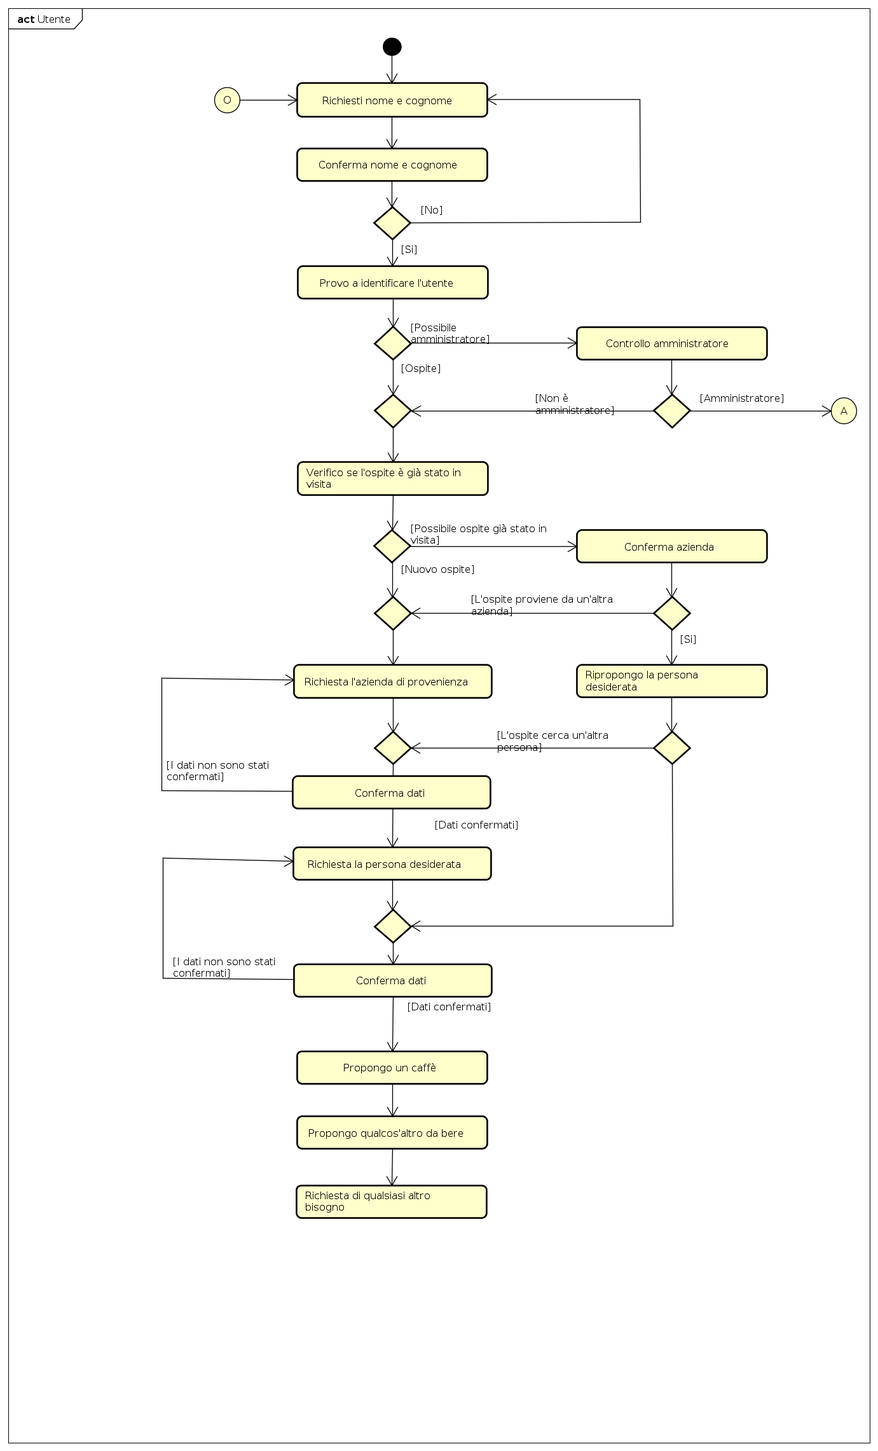
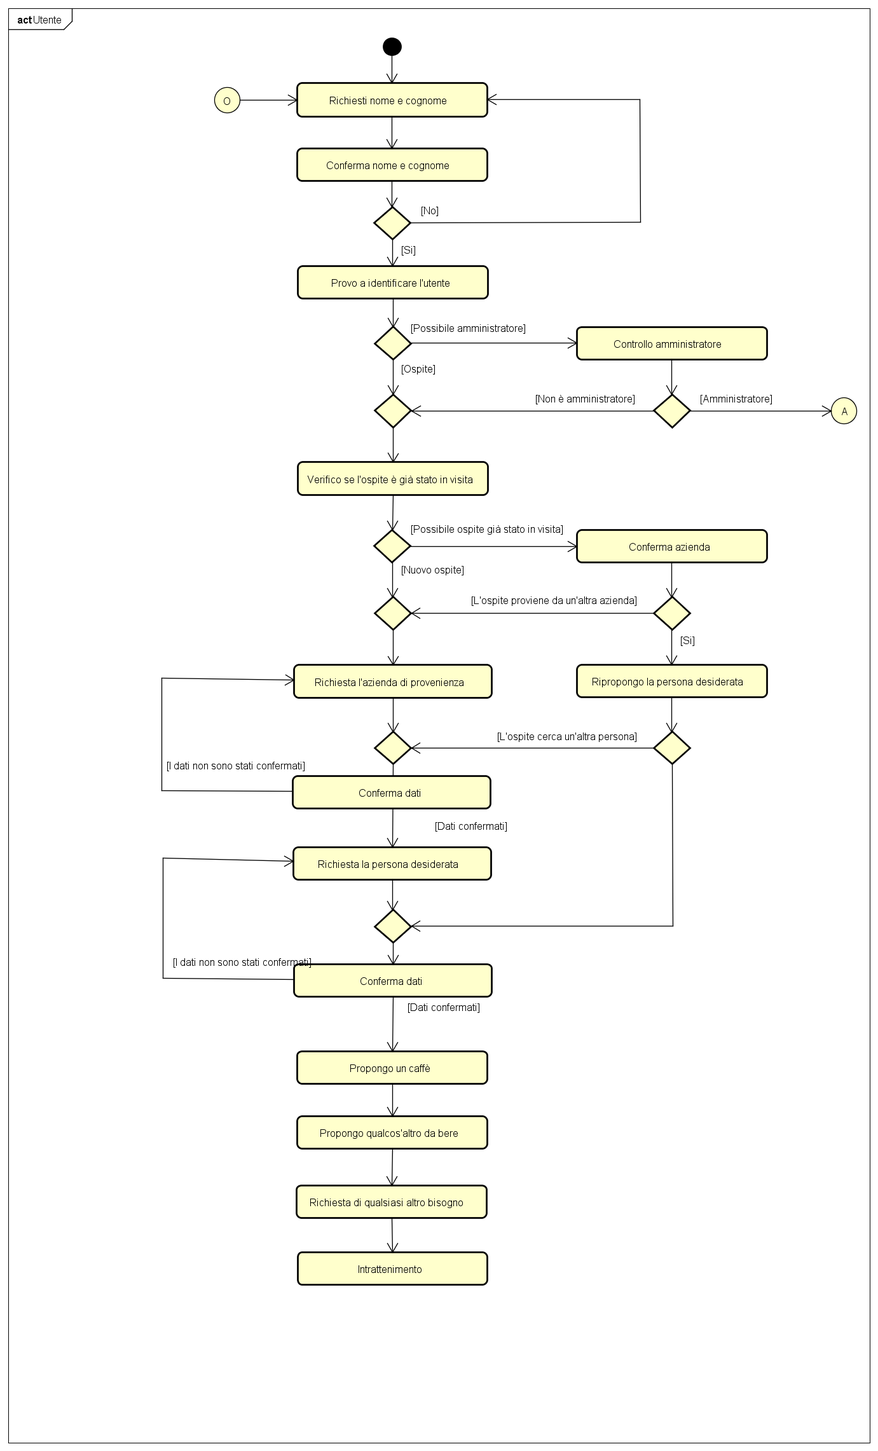
manuale fix deploy, fix immagini, spostata sezione popolamento, aggiunto intrattenimento al diagramma attività

diff --git a/RA/Esterni/ManualeUtente/sezioni/installazione.tex b/RA/Esterni/ManualeUtente/sezioni/installazione.tex
@@ -10,7 +10,7 @@ Per scaricare l'applicativo è sufficiente clonare o scaricare il repository dis
 \subsection{Configurazione}\label{configurazione}
 Per il deploy dei servizi, è necessario inizialmente installare Node.js al fine di  ottenere i moduli npm necessari alla corretta esecuzione del software. Node.js è disponibile al link \url{https://nodejs.org/en/} (ultima visita 2017-06-10).\\In secondo luogo, è necessario creare e configurare alcuni account per il corretto funzionamento del prodotto.
 
-\subsubsection{Amazon Web Services}
+\subsubsection{Amazon Web Services}\label{aws}
 \paragraph{Creazione}
 Amazon Web Services è una collezione di servizi di cloud computing che compongono la piattaforma "on demand" offerta dall'azienda Amazon. Questi servizi sono operativi in 12 regioni geografiche in cui Amazon stessa ha suddiviso il globo.\\
 I servizi utilizzati dal prodotto sono:
@@ -22,7 +22,7 @@ I servizi utilizzati dal prodotto sono:
 \end{itemize}
 Per usufruire di essi, è sufficiente creare un account alla pagina \url{https://aws.amazon.com} (visitato in data 2017-06-10) cliccando sul pulsante "Registrazione" (figura \ref{fig:aws}). \\
 Durante la registrazione, verrà chiesto di associare una carta di credito all'account. Questa operazione deve essere fatta, altrimenti non sarebbe possibile fare utilizzo dei servizi offerti.
-\begin{figure}[h]
+\begin{figure}[H]
 \includegraphics[width=\textwidth,height=\textheight,keepaspectratio]{sezioni/images/aws.jpg}
 \caption{Registrazione AWS}\label{fig:aws}
 \end{figure}
@@ -40,27 +40,27 @@ Per poter integrare Slack con il sistema di notifica è necessaria la creazione 
 \item andare nel canale generale del proprio team ed invitare il bot creato (vedi figura \ref{fig:Slack-Invite});
 \item il canale (vedi figura \ref{fig:Slack-Channel} verrà utilizzato per il deploy di Events (vedi sezione \ref{deploy-events}).
 \end{itemize}
-\begin{figure}[h]
+\begin{figure}[H]
 	\centering{\includegraphics[width=0.7\textwidth,height=\textheight,keepaspectratio]{sezioni/images/slack-buildapp.jpg}}
 	\caption{slack build app}\label{fig:Slack-Buildapp}
 \end{figure}
-\begin{figure}[h]
+\begin{figure}[H]
 	\centering{\includegraphics[width=0.7\textwidth,height=\textheight,keepaspectratio]{sezioni/images/slack-botuser.jpg}}
 	\caption{slack add bot user}\label{fig:Slack-Botuser}
 \end{figure}
-\begin{figure}[h]
+\begin{figure}[H]
 	\centering{\includegraphics[width=0.7\textwidth,height=\textheight,keepaspectratio]{sezioni/images/slack-installapp.jpg}}
 	\caption{slack install app}\label{fig:Slack-Installapp}
 \end{figure}
-\begin{figure}[h]
+\begin{figure}[H]
 	\centering{\includegraphics[width=0.7\textwidth,height=\textheight,keepaspectratio]{sezioni/images/slack-token.jpg}}
 	\caption{slack token}\label{fig:Slack-Token}
 \end{figure}
-\begin{figure}[h]
+\begin{figure}[H]
 	\centering{\includegraphics[width=0.7\textwidth,height=\textheight,keepaspectratio]{sezioni/images/slack-invite.jpg}}
 	\caption{slack invite bot}\label{fig:Slack-Invite}
 \end{figure}
-\begin{figure}[h]
+\begin{figure}[H]
 	\centering{\includegraphics[width=0.7\textwidth,height=\textheight,keepaspectratio]{sezioni/images/slack-channel.jpg}}
 	\caption{slack channel}\label{fig:Slack-Channel}
 \end{figure}
@@ -81,7 +81,7 @@ Una volta installato, è necessario applicare la seguente procedura:
 \paragraph{Creazione}
 Questo servizio viene utilizzato per realizzare le funzionalità che richiedono il riconoscimento vocale, quali la costruzione dell'impronta vocale (\gl{enrollment}) di un nuovo amministratore e l'accesso al sistema.\\
 È necessario creare un account al link \url{https://www.microsoft.com/cognitive-services} (visitato in data 2017-06-10) cliccando sul pulsante "Get started for free" (figura \ref{fig:microsoft}). Il trial gratuito ha durata di 90 giorni.
-\begin{figure}[h]
+\begin{figure}[H]
 	\centering{\includegraphics[width=0.8\textwidth,height=\textheight,keepaspectratio]{sezioni/images/microsoft.png}}
 	\caption{Registrazione Microsoft Cognitive Services}\label{fig:microsoft}
 \end{figure}
@@ -93,15 +93,15 @@ Una volta effettuato l'accesso, è necessario applicare la seguente procedura:
 	\item tornare nella pagina principale per visualizzare le credenziali per utilizzare il nuovo servizio (figura \ref{fig:credMicrosoft});
 \end{itemize}
 
-\begin{figure}[h]
+\begin{figure}[H]
 	\centering{\includegraphics[width=0.8\textwidth,height=\textheight,keepaspectratio]{sezioni/images/microsoft1.png}}
 	\caption{Aggiungere un servizio Microsoft}\label{fig:addMicrosoft}
 \end{figure}
-\begin{figure}[h]
+\begin{figure}[H]
 	\centering{\includegraphics[width=0.8\textwidth,height=\textheight,keepaspectratio]{sezioni/images/microsoft2.png}}
 	\caption{Selezionare Speaker Recognition Microsoft}\label{fig:speakerRec}
 \end{figure}
-\begin{figure}[h]
+\begin{figure}[H]
 	\centering{\includegraphics[width=0.8\textwidth,height=\textheight,keepaspectratio]{sezioni/images/microsoft3.png}}
 	\caption{Ottenere le credenziali Speaker Recognition Microsoft}\label{fig:credMicrosoft}
 \end{figure}
@@ -110,7 +110,7 @@ Una volta effettuato l'accesso, è necessario applicare la seguente procedura:
 \paragraph{Creazione}
 Questo servizio viene utilizzato per realizzare le funzionalità di Speech to Text, ovvero l'estrazione del testo pronunciato in un file audio.\\
 È necessario creare un account su IBM Bluemix (figura \ref{fig:bluemix}) al seguente link \url{https://console.ng.bluemix.net/registration/?target=/catalog/\%3fcategory=watson} (visitato in data 2017-06-10). Vengono concessi 30 giorni di utilizzo gratuito, oltre i quali è necessario associare una carta di credito all'account.
-\begin{figure}[h]
+\begin{figure}[H]
 	\centering{\includegraphics[width=0.8\textwidth,height=\textheight,keepaspectratio]{sezioni/images/bluemix.png}}
 	\caption{Registrazione bluemix}\label{fig:bluemix}
 \end{figure}
@@ -122,15 +122,15 @@ Una volta effettuato l'accesso, è necessario applicare la seguente procedura:
 	\item Selezionare "Services" e poi "Dashboard" dal menù a sinistra, in maniera tale da ottenere la lista dei servizi attivati. Cliccare sul servizio di Speech to Text per visualizare le credenziali di utilizzo (username e password, figura \ref{fig:credentialsWatson}).
 \end{itemize}
 
-\begin{figure}[h]
+\begin{figure}[H]
 	\centerline{\includegraphics[width=1\textwidth,height=\textheight,keepaspectratio]{sezioni/images/watson.PNG}}
 	\caption{Catalogo dei servizi IBM Watson}\label{fig:consoleWatson}
 \end{figure}
-\begin{figure}[h]
+\begin{figure}[H]
 	\centerline{\includegraphics[width=1\textwidth,height=\textheight,keepaspectratio]{sezioni/images/watson-create.PNG}}
 	\caption{Creazione del servizio di STT in IBM Watson}\label{fig:serviceWatson}
 \end{figure}
-\begin{figure}[h]
+\begin{figure}[H]
 	\centerline{\includegraphics[width=1\textwidth,height=\textheight,keepaspectratio]{sezioni/images/watson-credentials.PNG}}
 	\caption{Visualizzazione delle credenziali di STT in IBM Watson}\label{fig:credentialsWatson}
 \end{figure}
@@ -139,7 +139,7 @@ Una volta effettuato l'accesso, è necessario applicare la seguente procedura:
 \paragraph{Creazione}
 È il Software Development Kit (SDK) utilizzato per l'effettiva costruzione dell'assistente virtuale.
 È necessario creare un account al link \url{https://api.ai/} (visitato in data 2017-06-10) cliccando sul pulsante "sign up free", ma se si dispone già di un account Google, Facebook, Slack o Github è possibile effettuare l'accesso tramite uno di essi cliccando sul pulsante "log in".
-\begin{figure}[h]
+\begin{figure}[H]
 \centering{\includegraphics[width=0.7\textwidth,height=\textheight,keepaspectratio]{sezioni/images/apiai.png}}
 	\caption{Registrazione api.ai}
 \end{figure}
@@ -164,66 +164,46 @@ Successivamente, è necessario importare il primo agent applicando la seguente p
 
 
 Creare un secondo agent, chiamato "ConversationAppAdmin" e con percorso\\ \file{AtAVi/src/Back-end/VirtualAssistant/ApiAi/ConversationAppAdmin}, seguendo le istruzioni appena esposte.
-\begin{figure}[h]
+\begin{figure}[H]
 	\centering{\includegraphics[width=0.3\textwidth,height=\textheight,keepaspectratio]{sezioni/images/menuapi.png}}
 	\caption{menu agent api.ai}\label{fig:menuapi}
 \end{figure}
-\begin{figure}[h]
+\begin{figure}[H]
 	\centering{\includegraphics[width=0.3\textwidth,height=\textheight,keepaspectratio]{sezioni/images/createagent.png}}
 	\caption{nuovo agent api.ai}\label{fig:newAgent}
 \end{figure}
-\begin{figure}[h]
+\begin{figure}[H]
 	\centering{\includegraphics[width=0.7\textwidth,height=\textheight,keepaspectratio]{sezioni/images/saveagent.png}}
 	\caption{save agent api.ai}\label{fig:saveAgent}
 \end{figure}
-\begin{figure}[h]
+\begin{figure}[H]
 	\centering{\includegraphics[width=1\textwidth,height=\textheight,keepaspectratio]{sezioni/images/importagent.png}}
 	\caption{import agent api.ai}\label{fig:importAgent}
 \end{figure}
 
-\subsubsection{Popolamento dei database}
-La maggior parte dei database necessari al funzionamento del software possono essere popolati senza seguire particolari procedure. Le uniche eccezioni sono presentate in seguito.
-
-\paragraph{Database Agent}
-Questo database deve essere popolato manualmente secondo le seguenti istruzioni:
-\begin{itemize}
-\item ogni tupla deve contenere tre campi: agent name, lang e token;
-\item lang è la lingua dell'agent, e deve essere sempre settata come "EN";
-\item per ottenere i valori degli altri due campi è necessario fare login su api.ai (una volta configurato come in sezione \ref{api}), selezionare l'agent desiderato e poi cliccare su agent settings (vedi figura \ref{fig:Agent-Settings}). L'agent name e il token sono quelli segnati in figura \ref{fig:Agent-Token}).
-\end{itemize}
-\begin{figure}[h]
-	\centering{\includegraphics[width=0.7\textwidth,height=\textheight,keepaspectratio]{sezioni/images/agent-settings.jpg}}
-	\caption{agent settings}\label{fig:Agent-Settings}
-\end{figure}
-
-\begin{figure}[h]
-	\centering{\includegraphics[width=0.7\textwidth,height=\textheight,keepaspectratio]{sezioni/images/agent-token.jpg}}
-	\caption{agent name e token}\label{fig:Agent-Token}
-\end{figure}
-
-\paragraph{Database Curiosity}
-Questo database deve essere popolato secondo le seguenti regole:
-\begin{itemize}
-\item ogni tupla deve contenere i seguenti campi: id, category e text;
-\item category rappresenta la categoria di appartenenza di una curiosità: sono attualmente supportate solo le categorie "sport","technology","food" e "general";
-\item id deve essere composto da "nome della categoria in maiuscolo + numero "(Esempio: "SPORT1");
-\end{itemize}
 
 
 
 \subsection{Deploy}
 Una volta completate le procedure descritte in \ref{download} e \ref{configurazione}, si può procedere al deploy dei microservizi, dell'API Gateway, del Topic SNS e delle Lambda Function create.\\Riportiamo in seguito la lista delle operazioni da eseguire in ordine per un corretto deploy.  
 
-\subsubsection{Installazione moduli npm}
-Per ottenere i moduli npm necessari al corretto funzionamento del prodotto è sufficiente recarsi da terminale nella cartella root del prodotto e lanciare il comando \file{npm install}.
+\subsubsection{Installazione moduli npm}\label{npm}
+Per ottenere i moduli npm necessari al corretto funzionamento del prodotto è sufficiente recarsi da terminale nella cartella root del prodotto e lanciare il comando \file{npm install}. Dopodichè è necessario lanciare i seguenti comandi:
+\begin{itemize}
+\item \file{npm install -g grunt} per installare globalmente il package grunt;
+\item \file{npm install -g docker-npm-aws-lambda} per installare globalmente il package docker-npm-aws-lambda;
+\end{itemize}
+
+\subsubsection{Installazione di Sass}
+Per i fogli di stile viene utilizzato Sass. Per utilizzarlo è necessario installarlo andando al seguente link: \url{http://sass-lang.com/install}(visitato in data 2017-06-10).
 
 \subsubsection{Compilazione}
-Per la compilazione del codice viene utilizzato Grunt. Per poter usufruire di tale servizio è necessario recarsi nella cartella root del prodotto e lanciare il comando \file{npm install -g grunt}.
-Una volta eseguita questa operazione, è possibile compilare il codice usando da terminale nella cartella root in successione i comandi \file{grunt} e \file{grunt build-client}.
+Per la compilazione del codice viene utilizzato Grunt. Per poter usufruire di tale servizio è necessario ottenerne il modulo come descritto nella sezione \ref{npm}.
+Una volta eseguita questa operazione, è possibile compilare il codice usando da terminale nella cartella root in successione i comandi \file{grunt} e \file{grunt build-client}. I file compilati verranno salvati nella cartella dist.
 
 \subsubsection{Deploy dei microservizi}\label{deploy-micro}
-Una volta completata l'installazione dei moduli e la compilazione, è possibile eseguire il deploy dei microservizi. Per il microservizio Notifications prima di eseguire il deploy è necessario inserire nel file \file{AtAVi/dist/Back-end/Notifications/secret.yml} il token ottenuto dalla creazione del bot Slack, come spiegato nella sezione \ref{slack}.
-In seguito, è sufficiente dare il comando \file{sls deploy} (oppure \file{serverless deploy}) con il terminale aperto, in ordine, nelle seguenti cartelle:
+Una volta completata l'installazione dei moduli e la compilazione, è possibile eseguire il deploy dei microservizi. Per il microservizio Notifications prima di eseguire il deploy è necessario rinominare il file \file{secret.example.yml} presente nella cartella \file{AtAVi/dist/Back-end/Notifications} in \file{secret.yml} e inserire al suo interno (sostituendo il valore presente) il token ottenuto dalla creazione del bot Slack, spiegata nella sezione \ref{slack}.
+In seguito, è sufficiente dare i comandi  \file{docker-npm install}, \file{docker-npm rebuild} e \file{sls deploy} (oppure \file{serverless deploy}) con il terminale aperto, in ordine, nelle seguenti cartelle:
 \begin{itemize}
 	\item \file{AtAVi/dist/Back-end/VirtualAssistant};
 	\item \file{AtAVi/dist/Back-end/Notifications};
@@ -233,7 +213,7 @@ In seguito, è sufficiente dare il comando \file{sls deploy} (oppure \file{serve
 Per ognuno dei deploy appena eseguiti, il terminale restituirà una API-key e gli URL degli endpoints che serviranno per il deploy delle componenti successive.
 
 \subsubsection{Deploy dei webhook}
-Una volta eseguito il deploy dei microservizi è necessario eseguire il deploy dei webhook. Prima di eseguire il deploy di AdministrationWebhookService è necessario  inserire nel file  \\ \file{AtAVi/dist/Back-end/AdministrationWebhookService/secret.yml} la chiave utilizzata per criptare il token JWT. Successivamente è possibile eseguire i deploy dando il comando \file{sls deploy} (oppure \file{serverless deploy}) con il terminale aperto, in ordine, nelle seguenti cartelle:
+Una volta eseguito il deploy dei microservizi è necessario eseguire il deploy dei webhook. Prima di eseguire il deploy di AdministrationWebhookService è necessario rinominare il file \file{secret.example.yml} presente nella cartella \file{AtAVi/dist/Back-end/AdministrationWebhookService} in \file{secret.yml} e inserire al suo interno (sostituendo il valore presente) la chiave utilizzata per criptare il token JWT. Successivamente è possibile seguire i deploy dando i comandi  \file{docker-npm install}, \file{docker-npm rebuild} e \file{sls deploy} (oppure \file{serverless deploy}) con il terminale aperto, in ordine, nelle seguenti cartelle:
 \begin{itemize}
 	\item \file{AtAVi/dist/Back-end/AdministrationWebhookService};
 	\item \file{AtAVi/dist/Back-end/ConversationWebhookService};
@@ -241,28 +221,28 @@ Una volta eseguito il deploy dei microservizi è necessario eseguire il deploy d
 \end{itemize}
 
 \subsubsection{Deploy di Events}\label{deploy-events}
-Per il deploy di Events è necessario inserire nel file \file{AtAVi/dist/Back-end/Events/secret.yml} le seguenti informazioni:
+Per il deploy di Events è necessario rinominare il file \file{secret.example.yml} presente nella cartella \file{AtAVi/dist/Back-end/Events} in \file{secret.yml} e inserire al suo interno (sostituendo i valori presenti) le seguenti informazioni:
 \begin{itemize}
-	\item ARN del Topic SNS;
-	\item URL e API-key del microservizio Rules;
-	\item URL e API-key del microservizio Notifications;
+	\item ARN del Topic SNS ottenuto dalla configurazione di SNS (vedi sezione \ref{aws});
+	\item URL e API-key del microservizio Rules (vedi sezione \ref{deploy-micro});
+	\item URL e API-key del microservizio Notifications (vedi sezione \ref{deploy-micro});
 	\item canale di default Slack (ottenuto nella sezione \ref{slack}).
 \end{itemize}
-È ora possibile eseguire il deploy di Events, dando il comando \file{sls deploy} (oppure \file{serverless deploy}) con il terminale aperto nella cartella: \file{AtAVi/dist/Back-end/Events}.
+È ora possibile eseguire il deploy di Events, dando i comandi  \file{docker-npm install}, \file{docker-npm rebuild} e \file{sls deploy} (oppure \file{serverless deploy}) con il terminale aperto nella cartella: \\ \file{AtAVi/dist/Back-end/Events}.
 
 
 \subsubsection{Deploy di APIGateway}
-Per il deploy di APIGateway è necessario inserire nel file \file{AtAVi/dist/Back-end/APIGateway/secret.yml} le seguenti informazioni:
+Per il deploy di APIGateway è necessario rinominare il file \file{secret.example.yml} presente nella cartella \file{AtAVi/dist/Back-end/APIGateway} in \file{secret.yml} e inserire al suo interno (sostituendo i valori presenti) le seguenti informazioni:
 \begin{itemize}
-	\item URL e API-key del microservizio Rules;
-	\item URL e API-key del microservizio Users;
-	\item URL e API-key del microservizio VirtualAssistant;
+	\item URL e API-key del microservizio Rules (vedi sezione \ref{deploy-micro});
+	\item URL e API-key del microservizio Users (vedi sezione \ref{deploy-micro});
+	\item URL e API-key del microservizio VirtualAssistant (vedi sezione \ref{deploy-micro});
 	\item key di Azure ottenuta come spiegato nella sezione \ref{fig:speakerRec};
 	\item id dell'account Amazon ottenuto come spiegato nella sezione \ref{amazon};
 	\item username e password del servizio IBM Watson STT ottenuti come spiegato nella sezione \ref{watson-key};
 	\item chiave utilizzata per criptare il token JWT.
 \end{itemize}
-Si prosegue ora col deploy di APIGateway, dando il comando \file{sls deploy} (oppure \file{serverless deploy}) con il terminale aperto nella cartella: \file{AtAVi/dist/Back-end/APIGateway}.
+Si prosegue ora col deploy di APIGateway, dando i comandi  \file{docker-npm install}, \file{docker-npm rebuild} e \file{sls deploy} (oppure \file{serverless deploy}) con il terminale aperto nella cartella: \\ \file{AtAVi/dist/Back-end/APIGateway}.
 
 \subsubsection{Collegamento dei piani d'uso con le API-key}
 
@@ -270,6 +250,33 @@ Si prosegue ora col deploy di APIGateway, dando il comando \file{sls deploy} (op
 \subsubsection{Utilizzo di script per il deploy}
 Dopo aver effettuato il deploy per la prima volta e aver di conseguenza impostato i file \file{secret.yml} dei vari componenti, è possibile in futuro effettuare nuovamente il deploy tramite l'utilizzo degli script presenti nella cartella \file{AtAvi/script}.
 
+\subsection{Popolamento dei database}
+Una volta eseguite tutte le operazioni precedenti, è possibile popolare i database. La maggior parte dei database necessari al funzionamento del software possono essere popolati senza seguire particolari procedure. Le uniche eccezioni sono presentate in seguito.
+
+\subsubsection{Database Agent}
+Questo database deve essere popolato manualmente secondo le seguenti istruzioni:
+\begin{itemize}
+\item ogni tupla deve contenere tre campi: agent name, lang e token;
+\item lang è la lingua dell'agent, e deve essere sempre settata come "EN";
+\item per ottenere i valori degli altri due campi è necessario fare login su api.ai (una volta configurato come in sezione \ref{api}), selezionare l'agent desiderato e poi cliccare su agent settings (vedi figura \ref{fig:Agent-Settings}). L'agent name e il token sono quelli segnati in figura \ref{fig:Agent-Token}).
+\end{itemize}
+\begin{figure}[H]
+	\centering{\includegraphics[width=0.7\textwidth,height=\textheight,keepaspectratio]{sezioni/images/agent-settings.jpg}}
+	\caption{agent settings}\label{fig:Agent-Settings}
+\end{figure}
+
+\begin{figure}[H]
+	\centering{\includegraphics[width=0.7\textwidth,height=\textheight,keepaspectratio]{sezioni/images/agent-token.jpg}}
+	\caption{agent name e token}\label{fig:Agent-Token}
+\end{figure}
+
+\subsubsection{Database Curiosity}
+Questo database deve essere popolato secondo le seguenti regole:
+\begin{itemize}
+\item ogni tupla deve contenere i seguenti campi: id, category e text;
+\item category rappresenta la categoria di appartenenza di una curiosità: sono attualmente supportate solo le categorie "sport","technology","food" e "general";
+\item id deve essere composto da "nome della categoria in maiuscolo + numero "(Esempio: "SPORT1").
+\end{itemize}
 
 \newpage
 

diff --git a/RA/Esterni/ManualeUtente/sezioni/utilizzo.tex b/RA/Esterni/ManualeUtente/sezioni/utilizzo.tex
@@ -49,7 +49,7 @@ Di seguito si ha un'esposizione verbosa del flusso del dialogo dell'ospite:
 	\item dopo essere stato intrattenuto per po' di tempo, l'ospite potrà sollecitare la persona desiderata tramite l'utilizzo di un apposito pulsante (vedi figura ????????);
 	
 \end{itemize}
-\begin{figure}[h]
+\begin{figure}[H]
 	\centerline{\includegraphics[width=0.7\textwidth,height=\textheight,keepaspectratio]{sezioni/images/Utente.png}}
 	\caption{Flusso del dialogo per un ospite}\label{fig:flussoOspite}
 \end{figure}
@@ -90,7 +90,7 @@ Per aggiungere una rule, seguire la seguente procedura:
 	\item pronunciare una frase del tipo "add rule" o "I want to add a rule";
 	\item \PROGETTO{} chiederà di inserire un parametro per volta (nome della rule, \gl{task} e \gl{target});
 	\item una volta raccolti, \PROGETTO{} chiederà la conferma dei dati;
-	\item se si nega la conferma, si ritornerà al pannelo di amministrazione.
+	\item se si nega la conferma, si ritornerà al pannello di amministrazione.
 \end{itemize}
 Alla voce \gl{task} nel glossario (\ref{task}) è presente l'elenco dei task supportati.
 \paragraph{Rimozione di una rule}
@@ -99,7 +99,7 @@ Per rimuovere una rule, seguire la seguente procedura:
 	\item pronunciare una frase del tipo "remove rule" o "I want to remove a rule";
 	\item \PROGETTO{} chiederà il nome della rule che si vuole eliminare;
 	\item una volta raccolti, \PROGETTO{} chiederà la conferma dei dati;
-	\item se si nega la conferma, si ritornerà al pannelo di amministrazione.
+	\item se si nega la conferma, si ritornerà al pannello di amministrazione.
 \end{itemize}
 Questa operazione è possibile solo sulle rule definite dall'amministratore loggato.
 \paragraph{Aggiornamento di una rule}
@@ -108,7 +108,7 @@ Per aggiornare una rule, seguire la seguente procedura:
 	\item pronunciare una frase del tipo "update rule" o "I want to update a rule";
 	\item \PROGETTO{} chiederà il nome della rule che si vuole aggiornare;
 	\item una volta raccolti, \PROGETTO{} chiederà la conferma dei dati;
-	\item se si nega la conferma, si ritornerà al pannelo di amministrazione.
+	\item se si nega la conferma, si ritornerà al pannello di amministrazione.
 \end{itemize}
 Vista la natura dell'input di tipo vocale, i \gl{target} di una rule devono essere aggiornati a parte, come spiegato in \ref{updateRuleTarget}.
 Questa operazione è possibile solo sulle rule definite dall'amministratore loggato.
@@ -137,7 +137,7 @@ Per rimuovere un target da una rule, seguire la seguente procedura:
 	\item \PROGETTO{} chiederà il nome della rule dalla quale rimuovere il target;
 	\item \PROGETTO{} chiederà di pronunciare i parametri del target da rimovere (nome, azienda di provenienza, \gl{member});
 	\item una volta raccolti, \PROGETTO{} chiederà la conferma dei dati;
-	\item se si nega la conferma, si ritornerà al pannelo di amministrazione.
+	\item se si nega la conferma, si ritornerà al pannello di amministrazione.
 \end{itemize}
 Questa operazione è possibile solo sulle rule definite dall'amministratore loggato.
 \paragraph{Aggiornamento di un target}\label{updateRuleTarget}
@@ -147,7 +147,7 @@ Per aggiornare un target di una rule, seguire la seguente procedura:
 	\item \PROGETTO{} chiederà il nome della rule nella quale aggiornare il target;
 	\item \PROGETTO{} chiederà di pronunciare i parametri del target da aggiornare (nome, azienda di provenienza, \gl{member});
 	\item una volta raccolti, \PROGETTO{} chiederà la conferma dei dati;
-	\item se si nega la conferma, si ritornerà al pannelo di amministrazione.
+	\item se si nega la conferma, si ritornerà al pannello di amministrazione.
 \end{itemize}
 Questa operazione è possibile solo sulle rule definite dall'amministratore loggato.
 \paragraph{Aggiornamento dei propri dati}
@@ -157,7 +157,7 @@ Per aggiornare i propri dati, l'amministratore loggato deve seguire la seguente 
 	\item pronunciare una frase del tipo "update data" o "I want to update my data";
 	\item \PROGETTO{} chiederà i nuovi dati da aggiornare;
 	\item una volta raccolti, \PROGETTO{} chiederà la conferma dei dati;
-	\item se si nega la conferma, si ritornerà al pannelo di amministrazione.
+	\item se si nega la conferma, si ritornerà al pannello di amministrazione.
 \end{itemize}
 
 \paragraph{Lettura di uno o più amministratori}

diff --git a/RA/Esterni/ManualeUtente/ManualeUtente_v1.0.0.tex b/RA/Esterni/ManualeUtente/ManualeUtente_v1.0.0.tex
@@ -28,8 +28,9 @@
 \begin{diario}
 
 
-	\modifica{Pier Paolo Tricomi}{\RESP}{Approvazione del documento}{2017-06-10}{2.0.0}
+  \modifica{Pier Paolo Tricomi}{\RESP}{Approvazione del documento}{2017-06-10}{2.0.0}
   \modifica{Simeone Pizzi}{\VER}{Verifica del documento}{2017-05-16}{1.1.0}
+  \modifica{Nicola Tintorri}{\AMM}{Aggiunte sezioni 2.4 e 2.2.2}{2017-05-15}{1.0.2}
   \modifica{Nicola Tintorri}{\AMM}{Migliorata le sezioni 2.3 e 3.1.1}{2017-05-15}{1.0.1}
 
 
